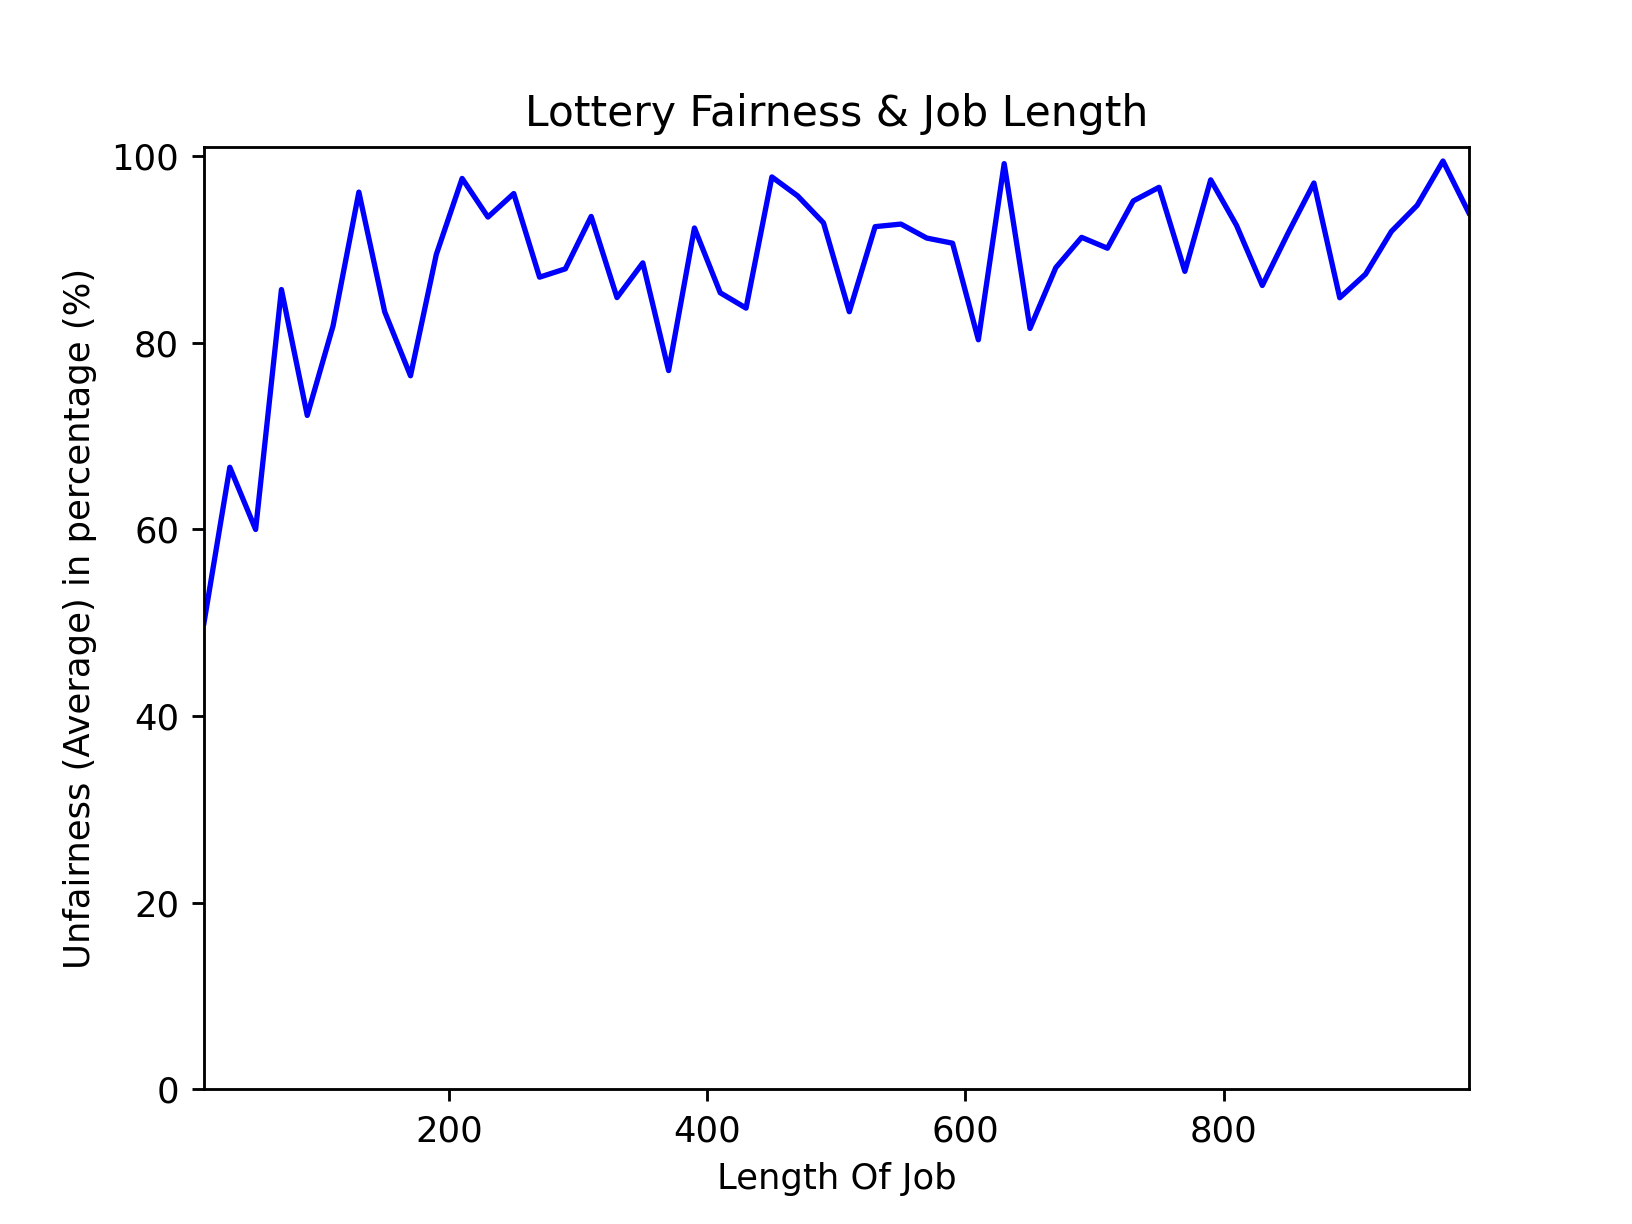
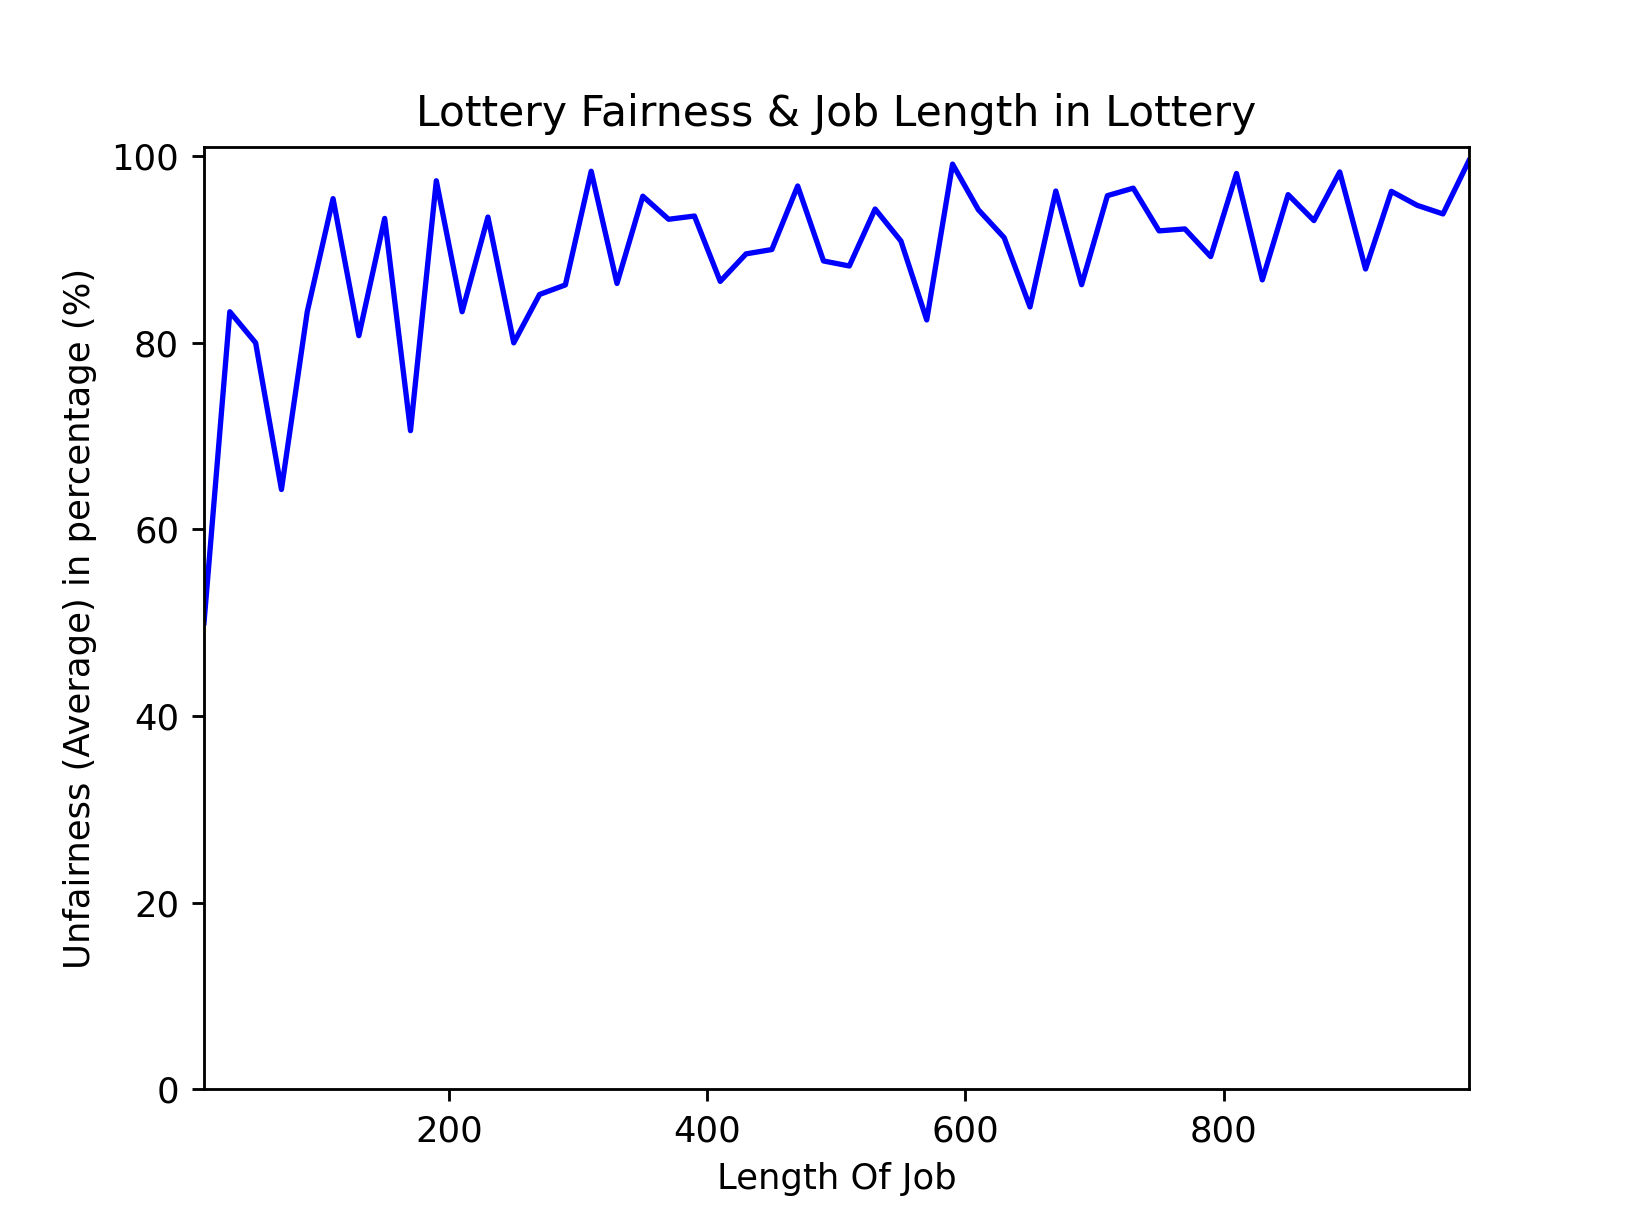
3

Changed region(s): [[0.125, 0.0621, 0.9062, 0.4967]]

diff --git a/hw3/graph2.py b/hw3/graph2.py
@@ -1,5 +1,6 @@
 #
 
+from itertools import count
 import math
 import numpy as np
 import random
@@ -10,26 +11,28 @@ def run():
     
     ticket = [50, 50]
     ticket.sort()
-    
+
     quantum = 10
     rate = []
     jobLengthOption = range(10, 1000, 20)
 
     for l in jobLengthOption:
-        
+        stride = [10000 / u for u in ticket]
+        counter = [0, 0]
         timeAcc = 0
         jobLength = [l, l]
         jobDonePart = [0, 0]
         jobDoneTimes = [0, 0]
         jobDoneStamp = [1, 1]
         while (jobDonePart[0] < jobLength[0] or jobDonePart[1] < jobLength[1]):
-            lottery = random.randint(1, 100)
-            if ((lottery <= ticket[0] and jobDonePart[0] < jobLength[0]) or jobDonePart[1] >= jobLength[1]):
+            
+            if ((counter[0] <= counter[1] and jobDonePart[0] < jobLength[0]) or jobDonePart[1] >= jobLength[1]):
                 # first choice
                 oldDone = jobDonePart[0]
                 jobDonePart[0] = min(jobDonePart[0] + quantum, jobLength[0])
                 timeAcc += jobDonePart[0] - oldDone
                 jobDoneTimes[0] += 1
+                counter[0] += stride[0]
                 if (jobDonePart[0] >= jobLength[0]):
                     jobDoneStamp[0] = timeAcc
             else:
@@ -38,6 +41,7 @@ def run():
                 jobDonePart[1] = min(jobDonePart[1] + quantum, jobLength[1])
                 timeAcc += jobDonePart[1] - oldDone
                 jobDoneTimes[1] += 1
+                counter[1] += stride[1]
                 if (jobDonePart[1] >= jobLength[1]):
                     jobDoneStamp[1] = timeAcc
         
@@ -56,11 +60,10 @@ def run():
     plt.margins(0)
     plt.xlabel('Length Of Job')
     plt.ylabel('Unfairness (Average) in percentage (%)')
-    plt.title('Lottery Fairness & Job Length in Lottery')
+    plt.title('Lottery Fairness & Job Length in Stride')
     plt.plot(jobLengthOption, rate, color='blue')
     
-    plt.savefig('9.2.1.png', dpi=255)
+    plt.savefig('9.2.2.png', dpi=255)
     plt.show()
-
 
 run()

diff --git a/hw3/hw9.md b/hw3/hw9.md
@@ -370,9 +370,12 @@ with a stride scheduler?*
 
 A: 
 
-* As the job length increases, the fairness is rised. <br />
+* As the job length increases, the fairness is rised in general, with little turbulance. <br />
 `mtowya@TowyadeMBP hw3 % python3 graph1.py`
 
 ![9.2.1.png](./9.2.1.png)
 
+* In stride mode, the fairness is steadily raised when the job length is increased.<br />
+`mtowya@TowyadeMBP hw3 % python3 graph2.py`
 
+![9.2.2.png](./9.2.2.png)
